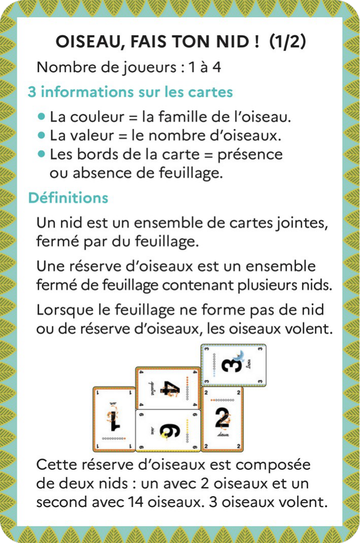
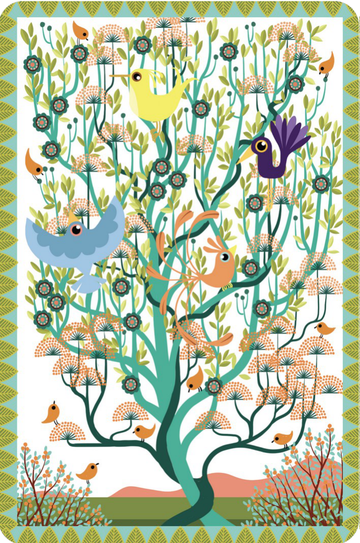
v1.6.1 : vrai dos officiel des cartes (page 7 du PDF jeu-carts-a-imprimer.pdf : arbre + oiseaux + bordure verte)
- assets/cartes/dos.png remplacé par le dos extrait de la page 7 du PDF fourni (md5 identique au fichier utilisé)
- VERSION 1.6.1 + badges v1.6.1 dans les deux jeux + ligne d'historique README

diff --git a/nombre-mystere/ui.js b/nombre-mystere/ui.js
@@ -2,7 +2,7 @@
 (function () {
   'use strict';
   const E = window.NombreMystere;
-  const VERSION = '1.6.0'; // synchronisé avec le fichier VERSION à la racine
+  const VERSION = '1.6.1'; // synchronisé avec le fichier VERSION à la racine
   const $ = (s) => document.querySelector(s);
 
   let state = null;

diff --git a/ui.js b/ui.js
@@ -2,7 +2,7 @@
 (function () {
   'use strict';
   const E = window.OiseauEngine;
-  const VERSION = '1.6.0'; // synchronisé avec le fichier VERSION à la racine
+  const VERSION = '1.6.1'; // synchronisé avec le fichier VERSION à la racine
   const $ = (s) => document.querySelector(s);
 
   let state = null;

diff --git a/README.md b/README.md
@@ -74,7 +74,7 @@ combinaisons de variantes (conservation des 40 cartes garantie).
 
 ## Version
 
-Version courante : **1.6.0** (fichier `VERSION` à la racine, badge « v… » affiché dans chaque jeu).
+Version courante : **1.6.1** (fichier `VERSION` à la racine, badge « v… » affiché dans chaque jeu).
 
 | Version | Nouveautés |
 | --- | --- |
@@ -85,6 +85,7 @@ Version courante : **1.6.0** (fichier `VERSION` à la racine, badge « v… » a
 | 1.4.0 | Jeu « Nombre mystère » (`nombre-mystere/`), jouable à 2 sur une tablette |
 | 1.5.0 | Vrais visuels des cartes (assets officiels Eduscol / © Charlotte Gastaut) |
 | 1.6.0 | Main des robots face visible, vrai dos sur la pioche, numéro de version affiché |
+| 1.6.1 | Vrai dos officiel des cartes (page 7 du PDF « jeu-carts-a-imprimer.pdf » : arbre + oiseaux + bordure verte) |
 
 ## Crédits
 
